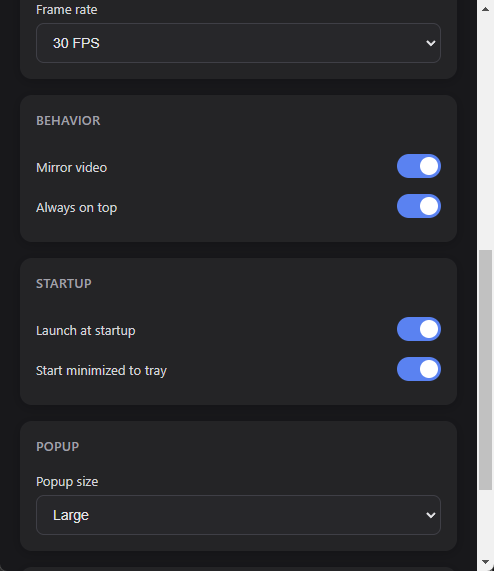
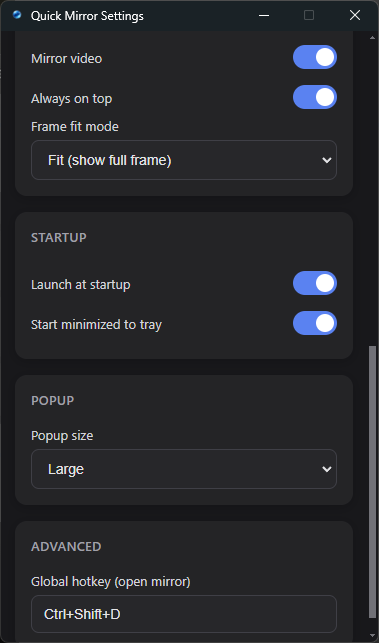
Refresh README voice and update preview screenshots

diff --git a/README.md b/README.md
@@ -1,8 +1,8 @@
 # Quick Mirror
 
-**Instant webcam mirror from the system tray — Hand Mirror style for Windows.**
+**Instant webcam mirror from the system tray — because yes, you *could* open Camera app like a normal person... but that is not power-user behavior.**
 
-Runs in the tray only (no taskbar icon). Left-click for a small mirror popup; right-click for fullscreen, settings, or exit.
+Runs in the tray only (no taskbar icon, no ceremony). Left-click for quick mirror checks. Right-click for fullscreen, settings, and advanced tinkering.
 
 <img src="previews/tray-preview.png" width="400" alt="Preview" />
 
@@ -10,20 +10,20 @@ Runs in the tray only (no taskbar icon). Left-click for a small mirror popup; ri
 
 ## Features
 
-- **Tray-only** — Lives in the system tray, no taskbar clutter
-- **Mini mirror** — Small floating popup (320×240 default), mirrored video, closes when you click outside
-- **Fullscreen mirror** — Full-screen view; press **ESC** to close
-- **Settings** — Camera, resolution, FPS, mirror on/off, popup size, always on top, launch at startup, global hotkey (default **Ctrl+Shift+M**)
-- **Single instance** — One process; `QuickMirror.exe --fullscreen` opens fullscreen in the running app
-- **Persistent settings** — Stored locally and applied immediately
+- **🧩 Tray-only** — Lives in the system tray like a sneaky little utility gremlin
+- **🪞 Mini mirror** — Floating popup mirror (320×240 default), mirrored video, auto-closes when you click away like it pays rent
+- **🖥 Fullscreen mirror** — Full-screen face inspection mode; smash **ESC** to leave your villain arc
+- **⚙ Settings** — Camera, resolution, FPS, mirror mode, popup behavior, startup, hotkey, frame fit mode
+- **🚀 Single instance** — No duplicate app armies; commands reuse the same running process
+- **💾 Persistent settings** — Your preferences survive restarts, updates, and 2 AM config decisions
 
 ---
 
 ## Requirements
 
-- **Windows 10 or 11**
-- A webcam
-- **Node.js 18+** (only for building/development)
+- **🪟 Windows 10 or 11**
+- **📷 A webcam**
+- **🟢 Node.js 18+** (only for building/development)
 
 ---
 
@@ -41,7 +41,7 @@ npm install
 npm start
 ```
 
-The app starts in the system tray. Use the tray icon to open the mirror or settings.
+The app starts in the tray. Click icon, inspect vibes, proceed with confidence. ✨
 
 ---
 
@@ -49,28 +49,28 @@ The app starts in the system tray. Use the tray icon to open the mirror or setti
 
 | Action | Result |
 |--------|--------|
-| **Left-click** tray icon | Open mini mirror popup |
-| **Right-click** tray icon | Menu: Open Mirror, Open Fullscreen Mirror, Settings, Exit |
-| **Click outside** popup | Close popup |
-| **ESC** (in fullscreen) | Close fullscreen mirror |
-| **Settings** (tray or fullscreen gear) | Open settings window |
+| **🖱 Left-click** tray icon | Open mini mirror popup |
+| **🖱 Right-click** tray icon | Menu: Open Mirror, Open Fullscreen Mirror, Settings, Exit |
+| **👆 Click outside** popup | Close popup |
+| **⌨ ESC** (in fullscreen) | Close fullscreen mirror |
+| **⚙ Settings** (tray or fullscreen gear) | Open settings window |
 
 ---
 
 ## Settings
 
-Open **Settings** from the tray menu or the gear icon in fullscreen.
+Open **Settings** from tray menu (or fullscreen gear) and tune everything until it feels illegally smooth.
 
 | Section | Options |
 |--------|--------|
-| **Camera** | Choose webcam (updates when devices are plugged/unplugged) |
-| **Quality** | Resolution (Low / Medium / High / Ultra) and frame rate (30 or 60 FPS) |
-| **Behavior** | Mirror video on/off, Always on top |
-| **Startup** | Launch at startup, Start minimized to tray |
-| **Popup** | Popup size: Small, Medium, Large |
-| **Advanced** | Global hotkey to open the mirror (click field, then press your combo) |
+| **📷 Camera** | Choose webcam (updates when devices are plugged/unplugged) |
+| **🎞 Quality** | Resolution (Low / Medium / High / Ultra) and frame rate (30 or 60 FPS) |
+| **🧠 Behavior** | Mirror video on/off, Always on top |
+| **⚡ Startup** | Launch at startup, Start minimized to tray |
+| **📐 Popup** | Popup size: Small, Medium, Large |
+| **⌨ Advanced** | Global hotkey to open the mirror (click field, then press your combo) |
 
-Settings are saved automatically and apply to the popup and fullscreen mirror right away.
+Settings save instantly and apply right away. No Save button. No trust falls.
 
 ---
 
@@ -83,10 +83,10 @@ npm run build
 
 Output in the **`dist/`** folder:
 
-- **Quick-Mirror-Setup-x.x.x.exe** — NSIS installer (**recommended**)
-- **Quick-Mirror-x.x.x.exe** — Portable (no install, **no auto-updates**)
+- **🟦 Quick-Mirror-Setup-x.x.x.exe** — NSIS installer (**recommended**)
+- **🧳 Quick-Mirror-x.x.x.exe** — Portable (no install, **no auto-updates**)
 
-Use the installer unless you specifically need portable. The installer supports in-app updates and smoother version upgrades.
+Use the installer unless you have a very specific reason not to. It supports in-app updates and smoother upgrades. This is the sane default. ✅
 
 Optional: add **`assets/icon.ico`** for the app icon and **`assets/tray-icon.png`** (16×16 or 32×32) for the tray icon.
 
@@ -103,42 +103,78 @@ When the app is built, you can use:
 | `Quick Mirror.exe --popup` | Start and open the mini mirror popup |
 | `Quick Mirror.exe --quit` | Exit the running app |
 
-Only one instance runs. Running `Quick Mirror.exe --fullscreen` again while the app is open will open or focus the fullscreen window in the same process.
+Only one instance runs. Run `Quick Mirror.exe --fullscreen` again and it just focuses the existing app. Zero clone wars.
 
 ---
 
 ## Releases
 
-**Download the latest release (installer or portable):**  
+**⬇ Download the latest release (installer or portable):**  
 **[Releases](https://github.com/dhruvcx-1/webcamquickmirror/releases)**
 
 Each release includes:
-- **Quick-Mirror-Setup-x.x.x.exe** — Installer (**recommended**)
-- **Quick-Mirror-x.x.x.exe** — Portable, no install
+- **🟦 Quick-Mirror-Setup-x.x.x.exe** — Installer (**recommended**)
+- **🧳 Quick-Mirror-x.x.x.exe** — Portable, no install
 
 Important:
-- Portable builds do **not** support auto-updates.
-- In-app updater works only with installer-based builds.
+- ❌ Portable builds do **not** support auto-updates.
+- ✅ In-app updater works only with installer-based builds.
+
+TL;DR: if you want the easy life, grab the installer. Portable is for people who enjoy doing things manually on purpose.
 
 ---
 
 ## Previews
 
-### Tray Popup
-<img src="previews/tray-preview.png" width="400" />
+### ✨ Tray Popup
+<img src="previews/tray-preview.png" width="420" alt="Quick Mirror tray popup" />
+
+### ⚙ Settings
+<img src="previews/settings-page-1.png" width="300" alt="Quick Mirror settings page - general" />
+<img src="previews/settings-page-2.png" width="300" alt="Quick Mirror settings page - advanced" />
+
+### 🔄 About & Updates
+<img src="previews/about.png" width="360" alt="Quick Mirror about and updates page" />
 
 ---
 
-### Settings Page
-<img src="previews/settings-page-1.png" width="200" /> <img src="previews/settings-page-2.png" width="200" />
-
----
-
-### Context Menu & Hotkey Setting
-<img src="previews/hotkey-setting-preview.png" width="200" /> <img src="previews/context-menu-preview.png" width="200" />
-
----
 ## About
 
-This is a personal side project built with Cursor and some of my own intelligence lol for my own use. I'm not a professional developer, so please excuse any bugs or rough edges. Feel free to report issues or suggest improvements!
+Yes, I made an app to look at my own face. On purpose. With effort. With architecture.
 
+And yes, I know the Windows Camera app exists. Everyone knows it exists. That is not the point.
+
+The point is: if I need to check hair, lighting, posture, beard alignment, hoodie symmetry, or just confirm I still look like a functioning member of society, I do not want to launch a full app, wait, click around, and pretend this is a normal workflow.
+
+I want a hotkey. I want instant mirror. I want out.
+
+Call it efficiency. Call it vanity. Call it a productivity-adjacent personality disorder. I call it ergonomics.
+
+So yes — this is a purpose-built tray gremlin for rapidly summoning my own face at will. If that sounds unhinged, correct. If it sounds useful, also correct.
+
+Also yes, real mirrors exist. Revolutionary concept.
+
+I could stand up and walk to one like it's 1890.
+I could use the front camera on my phone like a civilian.
+I could probably see my reflection in a spoon, a glossy monitor bezel, a window at night, or the surface tension of a very committed glass of water.
+
+But here's the problem: all of those require effort, movement, or emotional resilience.
+
+Some people keep a mirror on their desk. Respect. That's elite preparation.
+Some of us keep keyboard shortcuts and mild delusion.
+
+If laziness had a software architecture diagram, this app is the final form:
+tray icon + hotkey + instant face + disappear like nothing happened.
+
+No startup ritual. No app hunting. No "wait why is this opening in full camera mode" nonsense.
+
+Just:
+- press hotkey
+- evaluate face
+- continue mission
+
+Also yes, I built a full auto-updater for an app that started as "personal use only". At some point ADHD hyperfixation took the wheel, and now I am out here making 39 commits at 4 AM because a scrollbar looked 2 pixels wrong. And guess what it still does.
+
+Built as a personal side project for daily use, with a tiny AI assist and mostly stubborn human effort. If you find bugs, weird edge cases, or cursed behavior, open an issue and I will absolutely look at it. 🙌
+
+---
